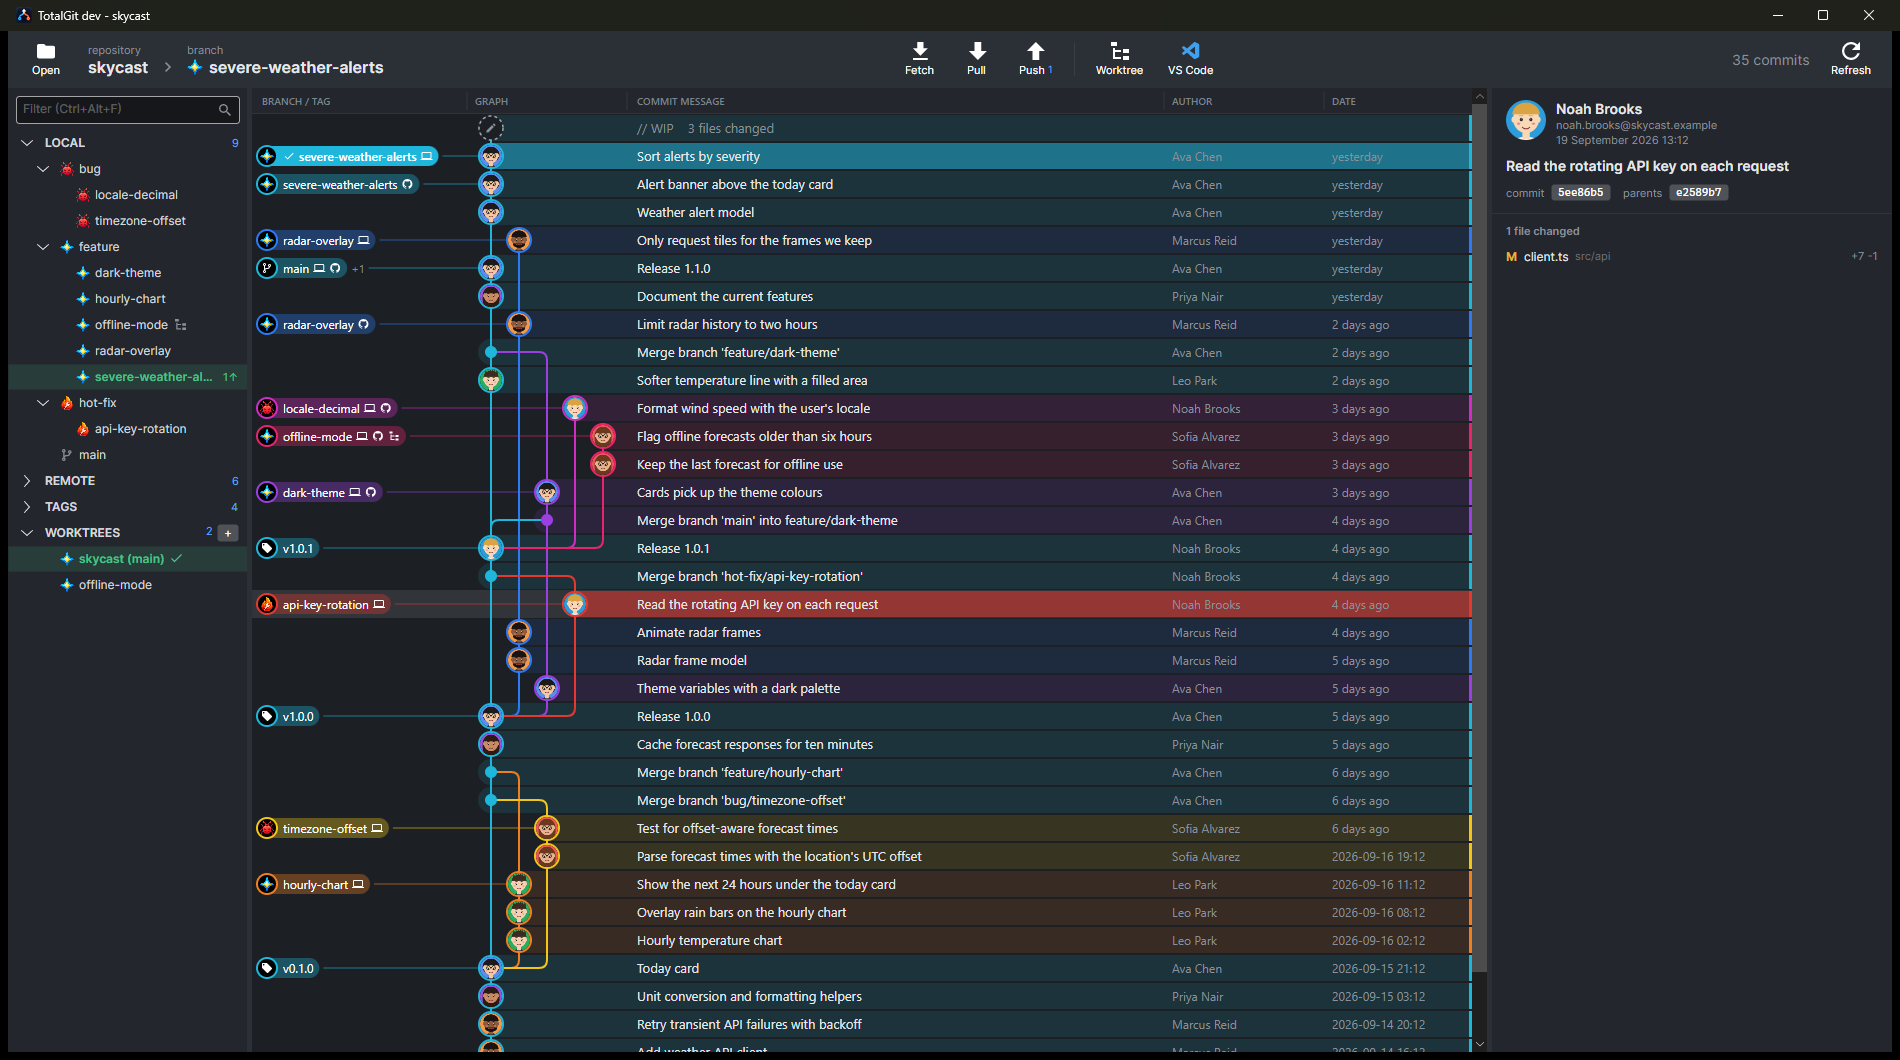
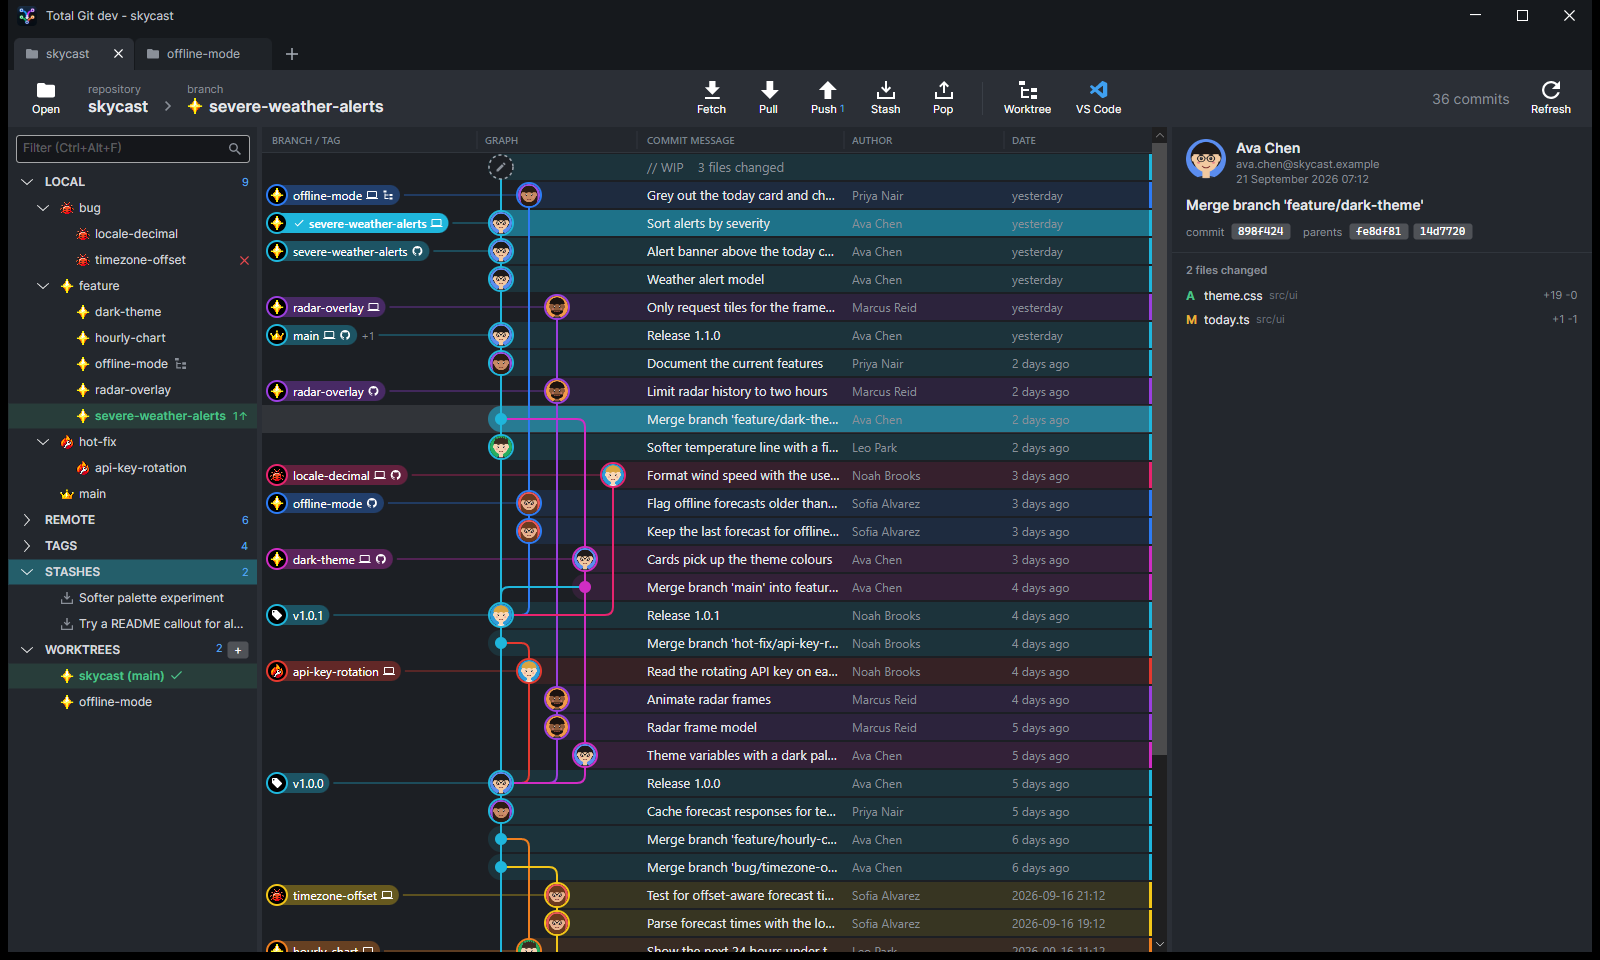
README: new screenshots (merge tool, interactive rebase, context menu) and a feature list

diff --git a/README.md b/README.md
@@ -2,16 +2,36 @@
   <img src="docs/logo.png" alt="Total Git" width="560">
 </h1>
 
-A visual git client for Windows, built with .NET and Avalonia: a commit graph with coloured
-lanes and avatars, branch/tag/worktree sidebar, commit details with inline or side-by-side diffs,
-staging and commit, fetch/pull/push, merge and rebase (including interactive rebase) with a built-in
-3-pane merge tool, stashes, tags, and `.worktrees/<name>` worktree management with VS Code launch.
+A visual git client for Windows, built with .NET and Avalonia.
 
-![Commit graph with branches, tags, worktrees and commit details](docs/screenshots/graph.png)
+![Commit graph with branches, tags, stashes, worktrees and commit details](docs/screenshots/graph.png)
+
+## Features
+
+- **Commit graph** with coloured lanes, author avatars, branch/tag pills and resizable columns.
+  `feature/`, `bug/` and `hot-fix/` branches get an icon instead of the prefix; `main` gets a crown.
+- **Sidebar** of local and remote branches, tags, stashes and worktrees, with ahead/behind counts and a
+  ✕ on branches whose remote branch has been deleted.
+- **Tabs** for several repositories or worktrees at once, restored when you reopen the app.
+- **Diffs** inline or side by side, for commits and for uncommitted changes.
+- **Staging and commit**, fetch, pull and push.
+- **Merge and rebase** from the right-click menu, including rebasing onto any commit and
+  **interactive rebase** (reorder, reword, squash, fix up or drop commits).
+- **Built-in 3-pane merge tool** for conflicts, with continue / skip / abort for merges and rebases in progress.
+- **Stashes** and **tags** (annotated or lightweight, push and delete).
+- **Worktrees** under `.worktrees/<name>`, opened in a tab or in VS Code.
 
 | Side-by-side diff | Staging and commit |
 | --- | --- |
 | ![Side-by-side diff of a commit](docs/screenshots/side-by-side-diff.png) | ![Staging uncommitted changes with an inline diff](docs/screenshots/staging.png) |
+
+| Resolving a merge conflict | Interactive rebase |
+| --- | --- |
+| ![The 3-pane merge tool with a merge in progress](docs/screenshots/merge-tool.png) | ![Interactive rebase: pick, squash and reword commits](docs/screenshots/interactive-rebase.png) |
+
+Right-click a commit, branch or tag for tags, worktrees, merge and rebase:
+
+![Commit context menu with create tag, merge, rebase and interactive rebase](docs/screenshots/context-menu.png)
 
 <sub>Screenshots use a made-up demo repository and people.</sub>
 
@@ -23,7 +43,7 @@ and run it. It installs for the current user (no admin) and adds a Start-menu sh
 The build isn't code-signed yet, so on first install Windows SmartScreen may show
 "Windows protected your PC" — choose **More info → Run anyway**.
 
-Requires [git](https://git-scm.com/) on `PATH` (used for commit, fetch, pull, push and worktrees).
+Requires [git](https://git-scm.com/) on `PATH` (used for commits, fetch/pull/push, merge, rebase, stash, tags and worktrees).
 
 ## Updates
 
